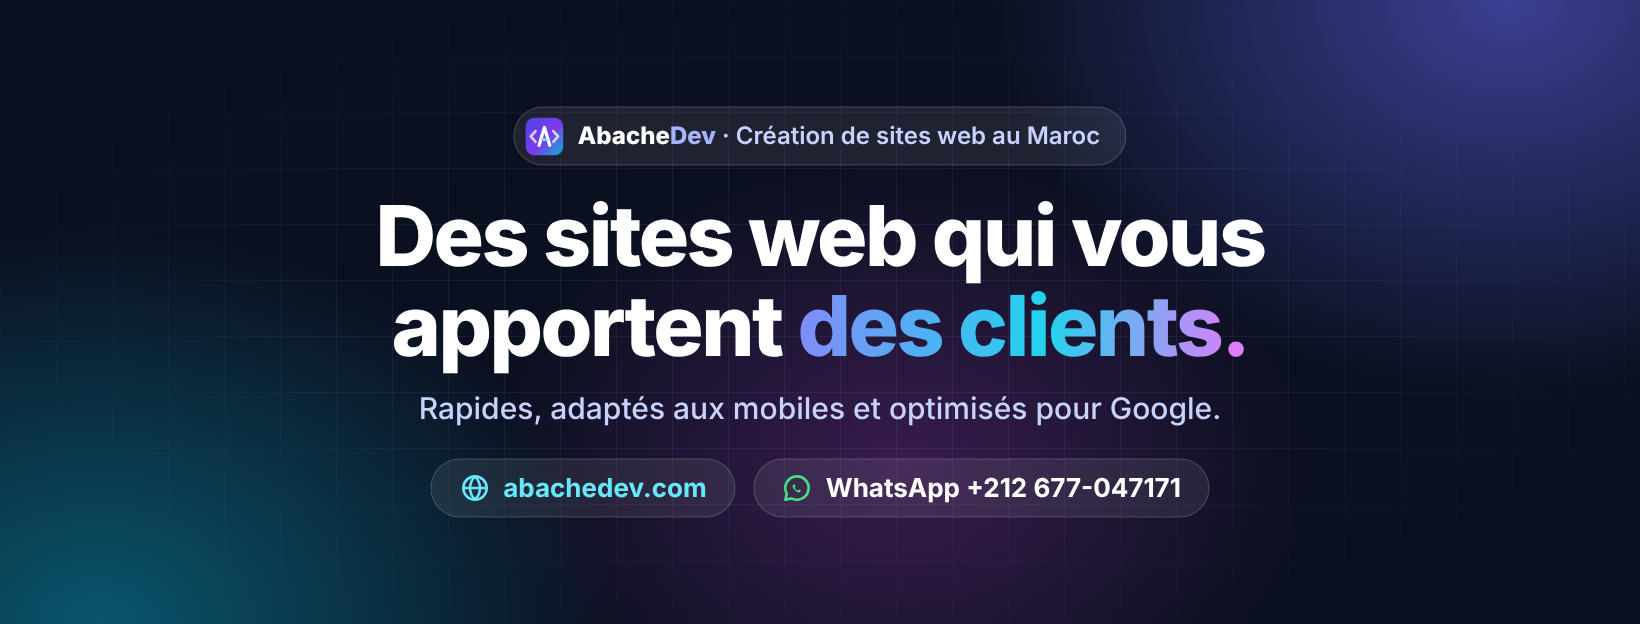
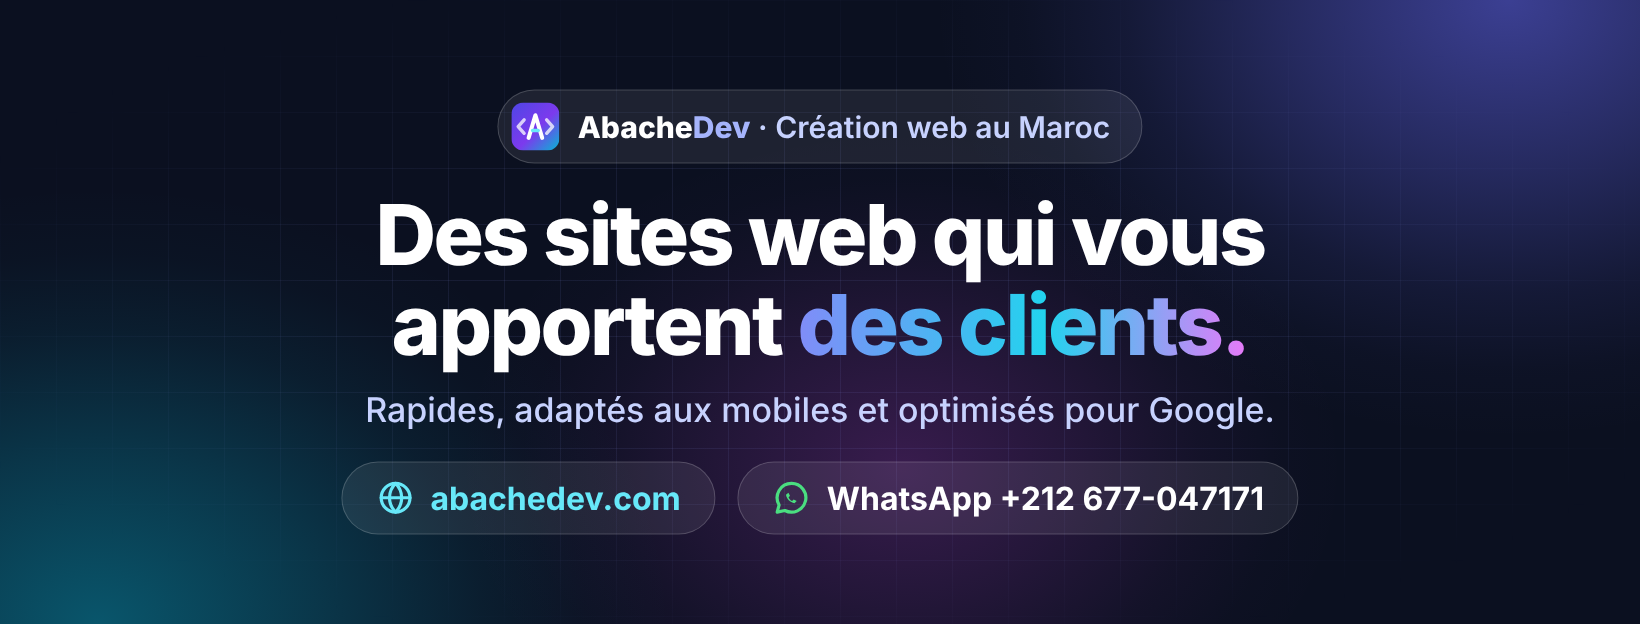
Fit social covers to current platform specs and phone screens
- LinkedIn company cover is now 4200x700, LinkedIn's minimum upload size
- LinkedIn personal cover text moved in from the right edge, which the
  mobile app crops
- Larger contact text on the Facebook, LinkedIn, X and YouTube covers so
  it stays readable on phones; one website chip on the LinkedIn company cover
- Softer background glows (no visible rim), no repeated "sites web" in
  the brand line
- New "Méthode" Instagram highlight to match the site menu

Claude-Session: https://claude.ai/code/session_01SJkFDNGHsUQKvMH8vjxh8D

diff --git a/README.md b/README.md
@@ -47,13 +47,13 @@ Ready to upload, at each platform's recommended size. Text, logos and the URL si
 | `profile-dark.png` | 1080×1080 | Alternative profile picture (dark) |
 | `profile-light.png` | 1080×1080 | Alternative profile picture (light) |
 | `facebook-cover.png` | 1640×624 | Facebook page cover |
-| `linkedin-company-cover.png` | 1128×191 | LinkedIn company page cover |
+| `linkedin-company-cover.png` | 4200×700 | LinkedIn company page cover |
 | `linkedin-personal-cover.png` | 1584×396 | LinkedIn personal profile background |
 | `x-header.png` | 1500×500 | X (Twitter) header |
 | `youtube-banner.png` | 2560×1440 | YouTube channel banner |
-| `ig-highlight-*.jpg` | 1080×1920 | Instagram story highlight covers: Services, Réalisations, Tarifs, Avis, FAQ, Contact. Post one as a story, add it to a highlight, then pick it as the highlight cover |
+| `ig-highlight-*.jpg` | 1080×1920 | Instagram story highlight covers: Services, Réalisations, Méthode, Tarifs, FAQ, Contact, plus Avis for when you have client reviews to share. Post one as a story, add it to a highlight, then pick it as the highlight cover |
 
-Use the same profile picture everywhere so people recognize you.
+Use the same profile picture everywhere so people recognize you, and put your WhatsApp number and abachedev.com in each profile's bio or contact button (people can tap those; they can't tap a number in a cover image).
 
 ## Preview locally
 Open `index.html` in your browser, or run:
